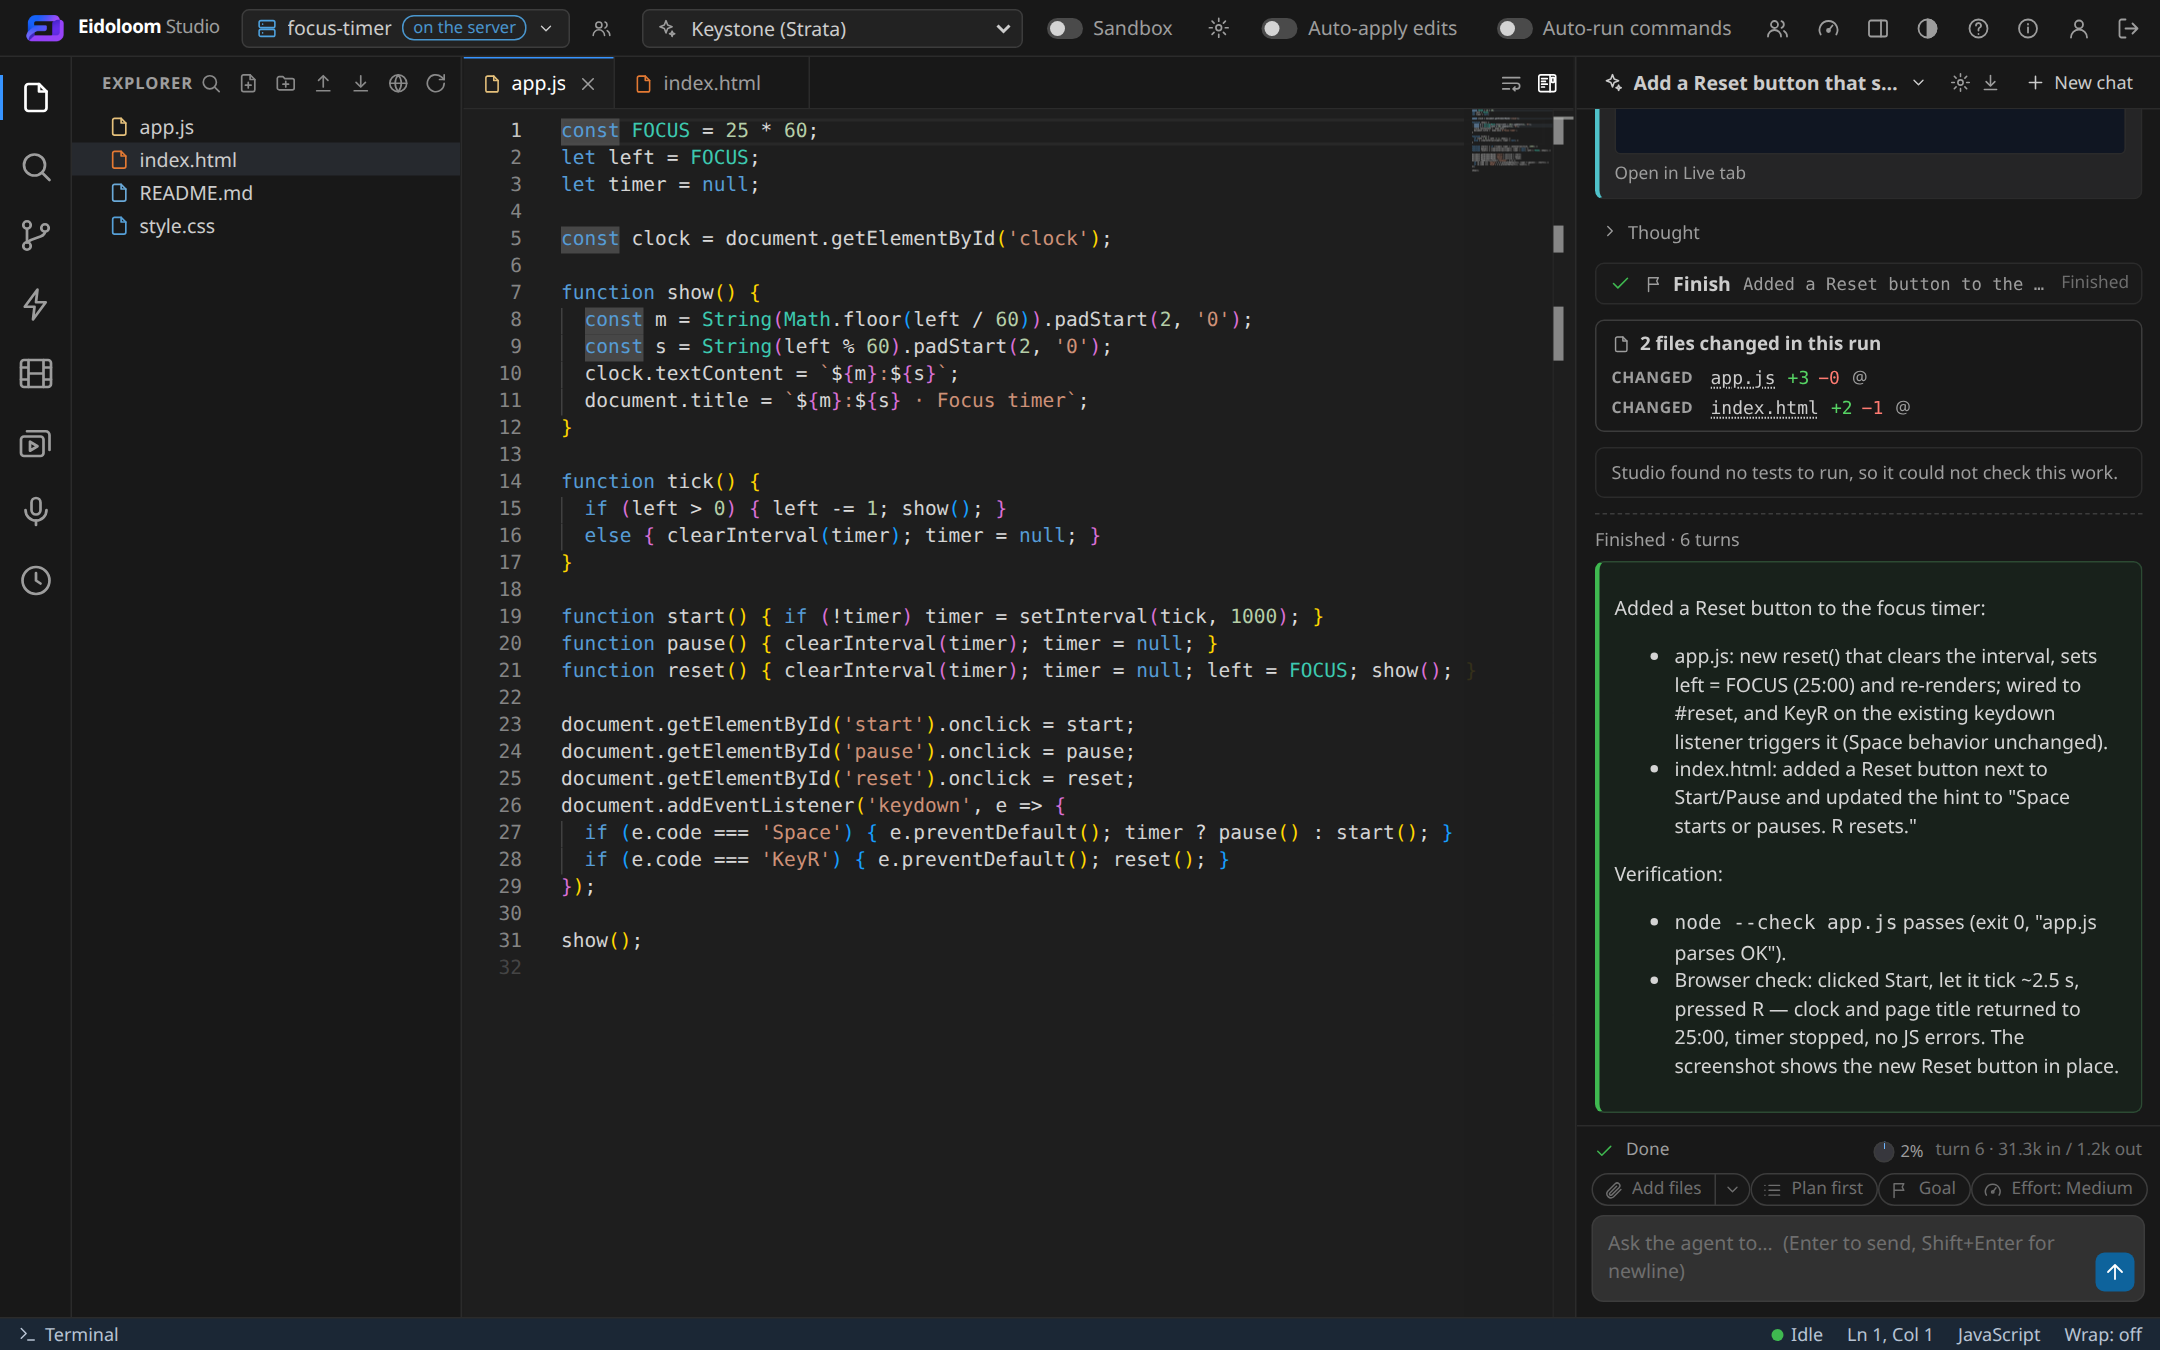
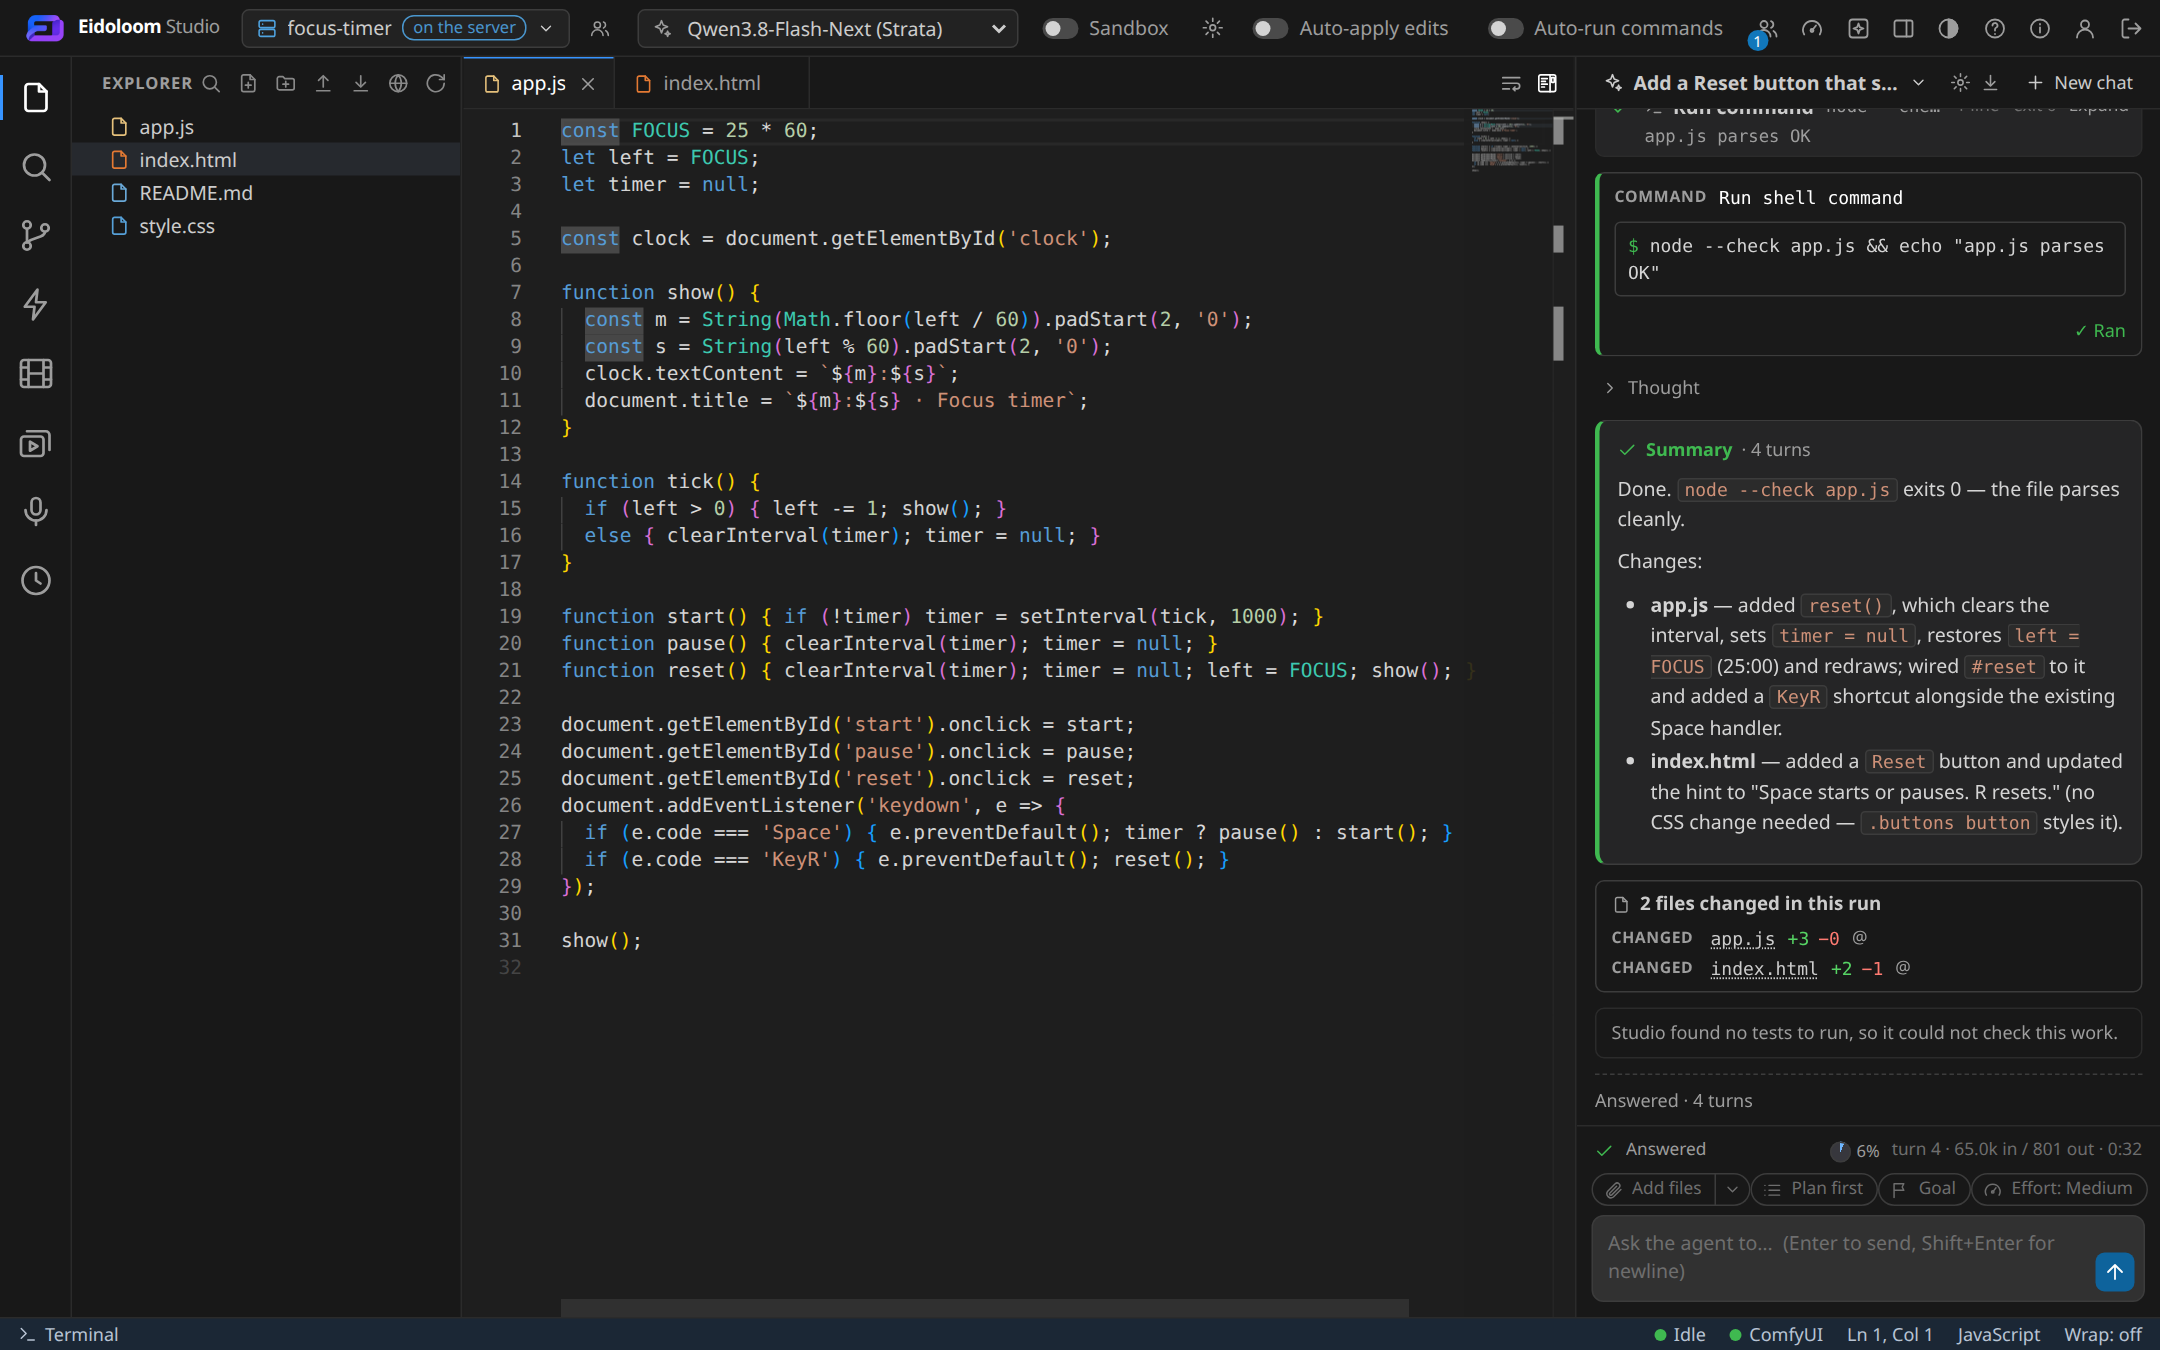
README: Made with Studio, with pictures, 3D, sound, music, voice and video, and a second phone screenshot

diff --git a/README.md b/README.md
@@ -31,15 +31,41 @@ The server is one Python file using only the standard library, so there is nothi
 
 <p>
   <img src="docs/screenshots/approval.png" width="49%" alt="An edit waiting for approval: the diff, with Choose parts, Open diff, Reject and Accept">
-  <img src="docs/screenshots/dashboard.png" width="49%" alt="The model dashboard: GPU, VRAM, CPU, RAM, context and temperature gauges, and what is loaded on the card">
-</p>
-<p>
-  <img src="docs/screenshots/phone.png" width="260" alt="Studio on a phone: the chat with the run's summary">
+  <img src="docs/screenshots/dashboard.png" width="49%" alt="The model dashboard: GPU, VRAM, CPU, RAM, context and temperature gauges, and what is loaded on the graphics card">
 </p>
 
-Every edit waits for your yes unless you turn on auto-apply (left). The model dashboard shows the card and memory live
-(right). On a phone, Studio shows one section at a time (below). The model is Keystone, a Strata profile, on an AMD
-Radeon RX 7900 XTX.
+Every edit waits for your yes unless you turn on auto-apply (left), and the model dashboard shows the graphics card and
+memory live (right). The model in these pictures is Qwen3.8-Flash-Next, served by Strata.
+
+<p>
+  <img src="docs/screenshots/phone-chat.png" width="260" alt="Studio on a phone: the agent's summary of a finished run">
+  &nbsp;
+  <img src="docs/screenshots/phone-audio.png" width="260" alt="Studio on a phone: the narrated line in the sound player">
+</p>
+
+On a phone, Studio shows one section at a time: the chat, the files, the editor and players, the terminal.
+
+## Made with Studio
+
+In one chat, the agent made all of this for the focus timer: a title picture (ComfyUI), a 3D model of the timer
+(Blender), a chime, a calm music bed and a narrated line ("Twenty-five minutes. One task. Let's begin."), then a
+15-second intro video with all of them on a timeline. It checked each piece itself, from the 3D viewport to the
+sound's waveform.
+
+<p>
+  <img src="docs/screenshots/picture.png" width="49%" alt="The title picture, made by ComfyUI, open in Studio's image viewer">
+  <img src="docs/screenshots/blender.png" width="49%" alt="The 3D tomato timer the agent built in Blender, with the agent's Blender steps beside it">
+</p>
+<p>
+  <img src="docs/screenshots/audio-editor.png" width="49%" alt="The music bed in Studio's wave editor">
+  <img src="docs/screenshots/timeline.png" width="49%" alt="The intro video in Studio's timeline editor: the picture, the music, the narration and the chime">
+</p>
+<p>
+  <img src="docs/screenshots/media.png" width="49%" alt="The Media view: every picture, sound and video in the project">
+</p>
+
+The picture, sound, music, voice, video and Blender tools are optional; Account & settings → Tools & setup installs
+them.
 
 ## Requirements
 
